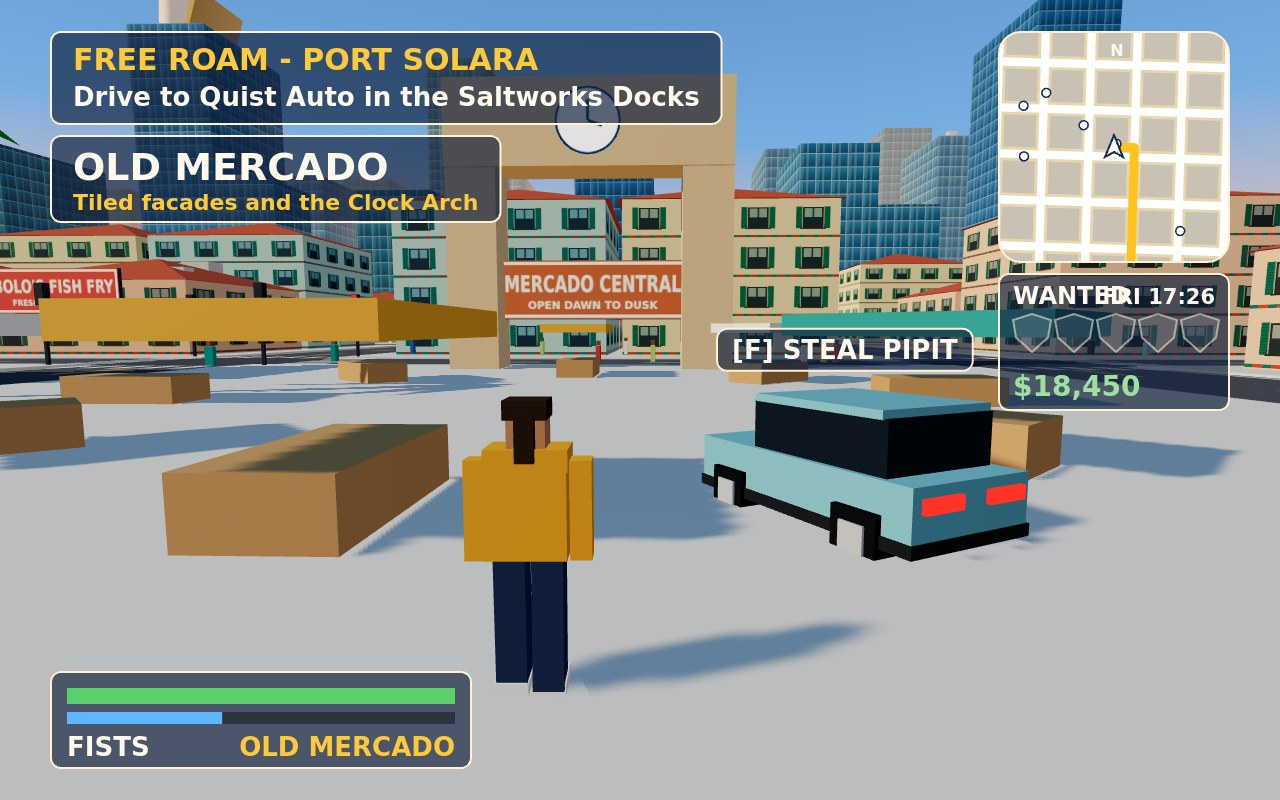
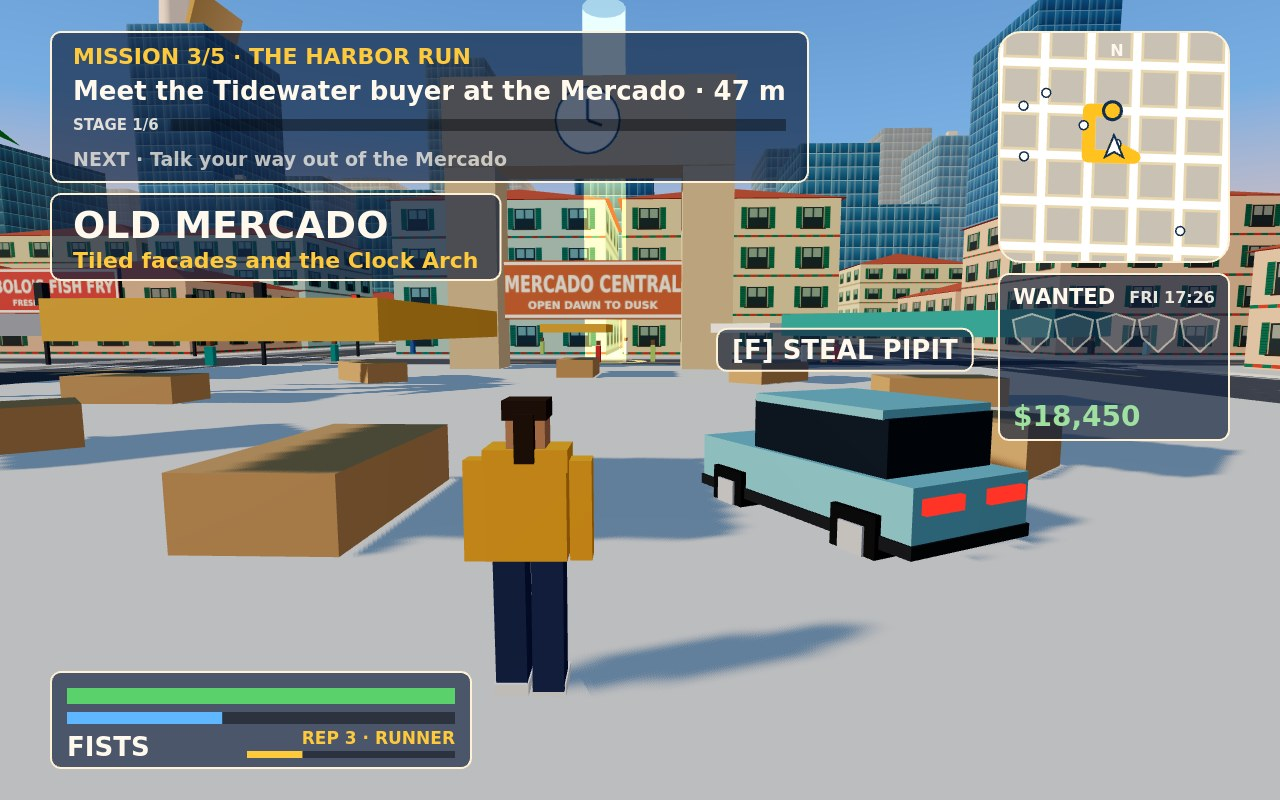
M3b steps 6-7: mission and gps self-tests (14/14 PASS); cover re-staged as mission 3 stage 4/6 at WANTED 3 (mission panel with timer and NEXT, Mara subtitle with portrait, REP bar, thicker gold GPS, police blips, HEAT 96 chip, TIDE 14 alongside in full, small searchlight disc); street shot on the sa

diff --git a/game/src/main.js b/game/src/main.js
@@ -9,12 +9,12 @@ import { createTrafficPool } from './traffic/traffic-drivers.js';
 import { PedestrianCrowd } from './people/pedestrian-crowd.js';
 import { PlayerOnFoot } from './player/player-on-foot.js';
 import { stealNearestCar, updateCarTheft, nearestCar } from './player/car-theft.js';
-import { ChaseCamera } from './camera/chase-camera.js';
-import { drawHud } from './ui/hud.js';
 import { WantedLevel } from './police/wanted-level.js';
 import { dispatchPoliceUnits, routeOverLanes, nearestNode } from './police/police-ai.js';
 import { STORY_MISSIONS, SPEAKERS, rankFor } from './missions/story-missions.js';
 import { MissionRunner } from './missions/mission-runner.js';
+import { ChaseCamera } from './camera/chase-camera.js';
+import { drawHud } from './ui/hud.js';
 import { drawMinimap } from './ui/minimap.js';
 import { showTitleScreen } from './ui/menus-and-map.js';
 import { createSynthAudio, RADIO_STATIONS, SONG_SECONDS } from './audio/synth-audio.js';
@@ -175,7 +175,7 @@ export function bootPortSolara() {
     game.objective = wl.pips > 0 ? {
       title: 'LOSE THE SPD - BREAK LINE OF SIGHT',
       detail: wl.inSight ? `In sight · stay unseen ${wl.escapeSeconds}s to escape` : `Unseen ${Math.floor(wl.unseenFor)}s of ${wl.escapeSeconds}s · leave the search zone`,
-    } : FREE_ROAM_OBJECTIVE;
+    } : game.missions.openStarts[0] ? storyObjective(game.missions.openStarts[0].mission) : FREE_ROAM_OBJECTIVE;
   };
 
   const v = new THREE.Vector3();
@@ -252,6 +252,11 @@ function nearestRoadName(network, x, z) {
     bd = across; best = r.name;
   }
   return best;
+}
+
+// Free roam with a story mission open: the banner names it and points at its gold ring.
+function storyObjective(m) {
+  return { title: `STORY ${m.number}/${m.of} - ${m.title.toUpperCase()}`, detail: `Meet ${m.giver.split(' ')[0]} at the gold ring ${m.number} on the map` };
 }
 
 // Parked cars along the curbs: [kind, x, z, heading].

diff --git a/game/src/police/wanted-level.js b/game/src/police/wanted-level.js
@@ -3,9 +3,6 @@
 // line of sight the last-seen spot follows Wren; once nobody sees her, the escape timer runs
 // (8 s + 3 s per pip) and the minimap shows a search circle around the last-seen spot. Leave the
 // circle or outlast the timer unseen and the heat clears.
-export const CRIME_HEAT = { theft: 1, pedHit: 1, gunfire: 1, copAssault: 2, cruiserWrecked: 2 };
-export const WITNESS_RANGE = 25;
-
 export class WantedLevel {
   constructor() {
     this.pips = 0;
@@ -42,6 +39,9 @@ export class WantedLevel {
 
   clear() { this.pips = 0; this.inSight = false; this.unseenFor = 0; }
 }
+
+export const CRIME_HEAT = { theft: 1, pedHit: 1, gunfire: 1, copAssault: 2, cruiserWrecked: 2 };
+export const WITNESS_RANGE = 25;
 
 // Walkers within 25 m of a spot: the witnesses to a crime there.
 export function countWitnesses(game, x, z) {

diff --git a/game/src/ui/menus-and-map.js b/game/src/ui/menus-and-map.js
@@ -31,7 +31,7 @@ export function showTitleScreen(game, onNewGame) {
 
   const strip = document.createElement('div');
   strip.className = 'controls-strip';
-  strip.textContent = 'WASD MOVE · MOUSE LOOK · SHIFT RUN · F STEAL/EXIT CAR · SPACE HANDBRAKE';
+  strip.textContent = 'WASD MOVE · SHIFT RUN · F STEAL/EXIT CAR · SPACE HANDBRAKE · R RADIO';
   root.append(controls, menu, strip);
 
   const onKey = (e) => {
@@ -50,6 +50,8 @@ export const CONTROLS = [
   ['SHIFT', 'run'],
   ['SPACE', 'handbrake'],
   ['F', 'enter / leave a car'],
+  ['R', 'radio: Gull FM / Low Tide (Heat 96 at WANTED 3+)'],
+  ['GOLD RING', 'walk in to start a story mission'],
   ['ESC', 'release the mouse'],
 ];
 

diff --git a/game/src/missions/mission-runner.js b/game/src/missions/mission-runner.js
@@ -75,6 +75,8 @@ export class MissionRunner {
       return;
     }
     const game = this.game, f = game.focus, age = game.time - this.stepAt;
+    // Custody clears the heat, so it must end the job rather than count as losing the SPD.
+    if (game.custody) { this.finish(false, 'IN CUSTODY'); return; }
     if (step.target && !step.at) this.target = step.target(game);
     if (step.lines && step.kind !== 'dialogue') this.subtitle = lineAt(step.lines, age);
     if (step.seconds && age > step.seconds) { this.finish(false, step.failText || 'OUT OF TIME'); return; }

diff --git a/game/src/dev/screenshot-scenes.js b/game/src/dev/screenshot-scenes.js
@@ -62,6 +62,10 @@ export const SCENES = {
     hold([], 300);
     game.crowd.gatherNear(150, 30, 12, 18);
     game.startPlay();
+    // The cover's save state, an earlier step: mission 1 done, mission 3 just started at the Mercado.
+    game.missions.completed.add('ferry');
+    game.missions.rep = 380;
+    game.missions.start(game.story[2], 0);
     game.player.x = 153.5; game.player.z = 81.5; game.player.facing = 0.03;
     game.chase.yaw = 0.03;
     hold(['KeyW'], 85);

diff --git a/game/src/ui/minimap.js b/game/src/ui/minimap.js
@@ -37,7 +37,7 @@ export function drawMinimap(ctx, game, x, y, size) {
   const route = game.route;
   if (route && route.length > 1) {
     ctx.strokeStyle = '#ffc21f';
-    ctx.lineWidth = 9 / scale * s;
+    ctx.lineWidth = 13 / scale * s;
     ctx.lineJoin = 'round'; ctx.lineCap = 'round';
     ctx.beginPath();
     ctx.moveTo(route[0].x, route[0].z);

diff --git a/NOTES.md b/NOTES.md
@@ -1,6 +1,76 @@
 # PORT SOLARA build notes
 
-## M3b in progress (run of 2026-11-18 20:21-20:37 EET: steps 0 and 1 done)
+## M3b Missions: done (steps 2-7 in the run of 2026-11-18 20:55-21:36 EET)
+- Cover fixes first: the grey disc round the car was SKYLARK 1's searchlight (cone base 5.2 m, so
+  the low chase camera sat inside it); cone and ground disc are now `SPOT_RADIUS` 2.6 m, disc
+  opacity 0.1. TIDE 14 is re-set alongside on the left, 4.5 m ahead, after the sim, so it reads in
+  full. The clock moved to the WANTED title row (WANTED 21 px, clock 16 px) so it never touches
+  the IN SIGHT / SEARCHING tag.
+- Step 2 missions/story-missions.js `STORY_MISSIONS`: all five by number, title and giver (1 Fresh
+  Off the Ferry / Mara, 2 Market Day / Mara, 3 The Harbor Run / Mara, 4 Ledger at Lantern Point /
+  Ilse, 5 Sundown / Mara); 1 and 3 playable, 2/4/5 `locked: 'Needs combat (M4)'`.
+  Mission 1: Mara dialogue, goto the Meridiana valet lane, steal any car, deliver to Quist Auto
+  (-90, 270), Mara's payoff; $5,000 and 120 REP. Mission 3: goto the Mercado, **the Mercado fight is
+  a dialogue beat (Ilse, Mara) until M4 combat**, steal the Albacore (moving marker on the car,
+  WANTED 3 on entry), lose the SPD and head for the Docks (0, 210) with a 3:00 timer and Mara /
+  Roarke on the radio, park at the Docks, payoff; $8,500 and 260 REP. `REP_RANKS` (six ranks),
+  `rankFor`, `SPEAKERS`. Start rings (small gold beam + ring, 2 draw calls each, hidden while a
+  mission runs or once done) and numbered gold minimap blips clamped to the map edge; walking or
+  driving within 5 m starts the mission. Free roam's banner names the next open story mission.
+- MissionRunner now: `lines` subtitles on any step, `target(game)` moving markers, `start(m, step)`,
+  REP and `completed`, custody fails the running job (IN CUSTODY), `resultCard()`.
+- Step 3 GPS: `game.planRoute` = lane-graph A* (`routeOverLanes`) from the crossing nearest Wren to
+  the one nearest the goal, re-planned every 30 ticks or when the goal moves 4 m; thick gold line
+  (13 px). Goal = mission marker, else the next open start ring, else Quist Auto. Result cards:
+  "JOB DONE" + mission name + "TIME m:ss · +$cash · +REP", or "JOB BLOWN" + reason ("OUT OF TIME",
+  "IN CUSTODY") + "RETRY AT THE GOLD RING"; 6 s with fades.
+- Step 4 subtitles in the gap between the health and speed panels on their baseline: canvas
+  portrait chip (flat faces: Mara hair-bun, Ilse teal bandana, Roarke SPD cap with gold badge),
+  gold speaker name, wrapped text. REP bar and "REP n · RANK" on the weapon row. Toast
+  "VEHICLE STOLEN: <car>" on a car's first theft.
+- Step 5 radio: `RADIO_STATIONS` in audio/synth-audio.js (GULL FM 101.4, LOW TIDE 88.2, HEAT 96;
+  invented songs and artists, 95 s per song), a 16-step lookahead sequencer (bass + lead
+  oscillators per step into one bus, only after the audio unlock, only in a car). R switches Gull
+  FM / Low Tide; Heat 96 takes over at WANTED 3+. Chip over the speed panel: level meter, station,
+  "song — artist". Title strip and CONTROLS list name R and the gold ring.
+- Step 6 tests: `mission` (start rings not inside buildings, walk into ring 1, through all 5 stages
+  with teleports, panel header + live distance, JOB DONE card, +$5,000, +120 REP, marked done) and
+  `gps` (route from Palmline to mission 3's marker: 8 points, every inner point a crossing, legs
+  axis-aligned, ends at the marker, 345 m for 319 m straight). Cover re-staged per brief section 3:
+  mission 3 stage 4/6 at WANTED 3 with the 2:58 timer and NEXT line, Mara subtitle with portrait,
+  REP 3 · RUNNER, gold GPS + police blips, HEAT 96 chip, cruisers with lit bars, SKYLARK 1, traffic,
+  walkers. 2-street.jpg is the same save state one step earlier (mission 3 stage 1/6, 47 m to the
+  Mercado marker).
+- Outline: wanted-level.js now leads with `WantedLevel` (constants moved below the class); main.js
+  imports follow the brief's table (police, missions, then camera, HUD, minimap, menus, audio).
+
+## Self-test after M3b (SwiftShader, 1280x800): SELFTEST PASS, 14/14
+- boot 34 ms, walk 9.3 m, drive 35.2 m/s, traffic 24 / 0 overlaps / 7 at a red, peds 32 / 0
+  inside, steal, wanted (cleared after 11 s), skid 82 strips / 13 puffs, police (4 cruisers,
+  roadblock, helicopter, 69 -> 8 m), custody 2.53 s, mission (5 stages, JOB DONE, $5,000, 120 REP),
+  gps (8 points on the grid), perf 127 draw calls / 39,337 triangles / median 1.4-2.5 ms / heap
+  16-18 MB in the perf view, console clean. The cover-scene draw count was not re-measured this run
+  (171 at M3a with all police up; the mission marker adds 2, start rings are hidden in a mission).
+- Originality PASS (27 files). main.ts twice: 34 output files byte-identical, dossier 916,339 bytes.
+- Shots: 1-chase.jpg 188.4 KiB (q80), 2-street.jpg 170.7 KiB (q88), 4-title.jpg 189.0 KiB (q76).
+  Judge sheet rebuilt; at 50% the cover reads mission, chase, police, helicopter, WANTED, minimap,
+  subtitle and radio.
+
+## Next (M4 Combat and story)
+- weapons-and-damage.js `fireWeapon`, Tidewater gunmen; replace mission 3's Mercado dialogue beat
+  with the fight; missions 2, 4 and 5 as step lists; shot 2 final (aiming, muzzle flash).
+
+## Bugs / debts (M3b)
+- The cover is at the 190 KiB limit (188.4 KiB at q80); any more detail drops its JPEG quality.
+- The left HUD column (mission panel, district card, SPD RESPONSE) is tall in the cover; the
+  district card could skip the cover once the map shot carries districts.
+- GPS's first leg runs straight from Wren to the nearest crossing (it can cut a block corner when she
+  stands mid-block or in a plaza).
+- A start ring is entered by distance only; there is no "[F] start" prompt or briefing card yet.
+- Mission 3's ring is open before mission 1 is done (no story gating yet; M5 save carries progress).
+- Radio is not saved and has no volume setting (M5 settings).
+
+## M3b steps 0-1 (run of 2026-11-18 20:21-20:37 EET)
 - Step 0 cover QA: tyre smoke is now one Points object of soft round sprites (64 px radial-gradient
   CanvasTexture, per-puff size 0.35 -> 1.25 m and alpha 0.42 fading to 0 within 1 s), emitted half
   as often, half a metre behind the rear wheels and drifting back, so it trails the car instead of

diff --git a/README.md b/README.md
@@ -16,6 +16,8 @@ Built by Claude Code for Nightshift Labs as an entry to make.fun's gta6-01 conte
 - **Shift**: run
 - **Space**: handbrake (in a car)
 - **F**: steal the nearest car (a driver gets dragged out of a moving one), or leave yours
+- **R**: switch the car radio between Gull FM and Low Tide (Heat 96 takes over at WANTED 3+)
+- **Gold ring**: walk or drive into one to start a story mission (1 Fresh Off the Ferry, 3 The Harbor Run)
 - **Esc**: release the pointer
 
 ## Run it
